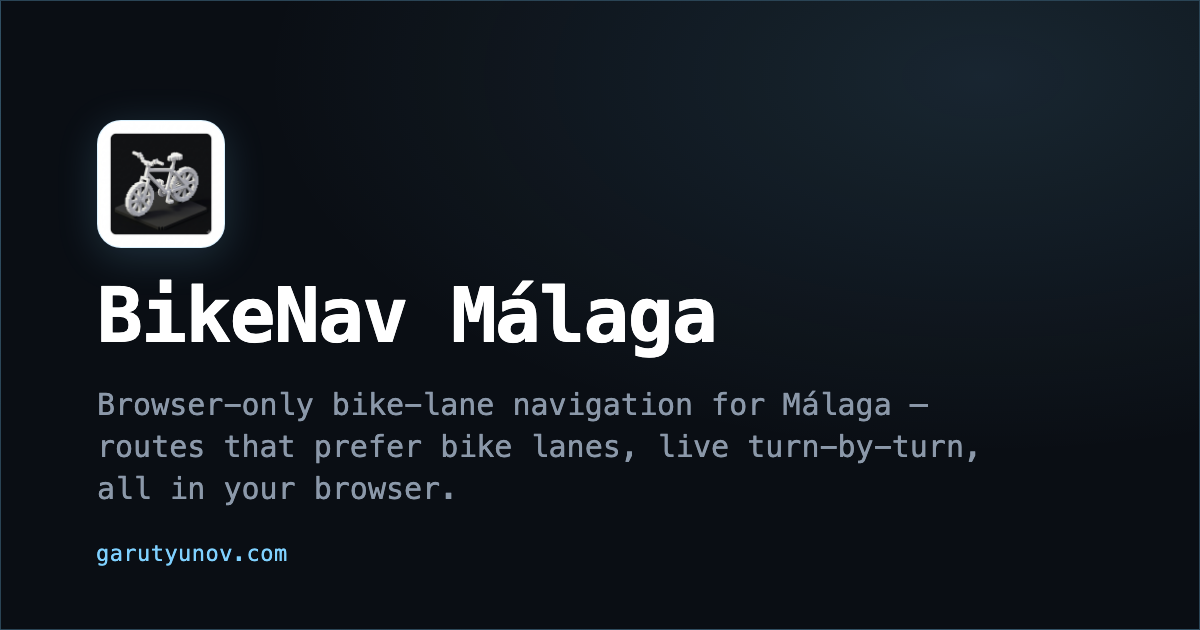
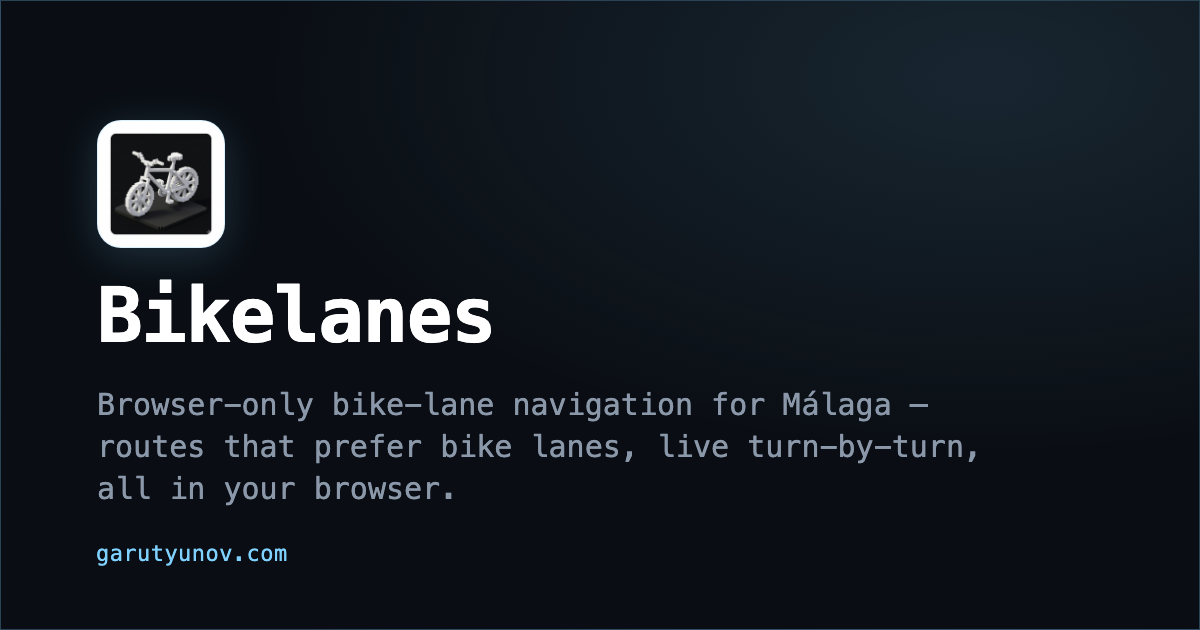
Rename the app to Bikelanes to match the domain (#2)
Owner review comment on PR #3: the product name should match
bikelanes.garutyunov.com.

- index.html: <title>, og:title, twitter:title and the panel heading
  (rendered "Bike" + accented "lanes").
- Regenerated public/og-image.png through the social-image skill so the
  card says Bikelanes.
- README/SPEC headings, file-header comments, the history-import error
  message, and the Overpass user agent.

Persisted identifiers are deliberately untouched: the IndexedDB database
`bikenav` (and its BikeNavDB type) and the `bikenav-history` export format
string — renaming them would orphan every existing user's journey history
and reject their previously exported files.

Changed region(s): [[0.3083, 0.4222, 0.6167, 0.573], [0.2158, 0.4524, 0.2775, 0.5429]]

diff --git a/index.html b/index.html
@@ -4,7 +4,7 @@
     <meta charset="UTF-8" />
     <meta name="viewport" content="width=device-width, initial-scale=1.0, maximum-scale=1.0, user-scalable=no" />
     <meta name="theme-color" content="#000000" />
-    <title>BikeNav Málaga — bike-lane navigation for Málaga</title>
+    <title>Bikelanes — bike-lane navigation for Málaga</title>
     <meta
       name="description"
       content="Browser-only, client-side bike-lane navigation for Málaga: routes that prefer bike lanes, live turn-by-turn, and journey history — all in your browser, no server."
@@ -14,7 +14,7 @@
          Projects section, which crawls this page at build time. -->
     <meta property="og:type" content="website" />
     <meta property="og:url" content="https://bikelanes.garutyunov.com/" />
-    <meta property="og:title" content="BikeNav Málaga" />
+    <meta property="og:title" content="Bikelanes" />
     <meta
       property="og:description"
       content="Browser-only bike-lane navigation for Málaga — routes that prefer bike lanes, live turn-by-turn, all in your browser."
@@ -24,7 +24,7 @@
     <meta property="og:image:height" content="630" />
     <meta property="article:published_time" content="2025-06-15" />
     <meta name="twitter:card" content="summary_large_image" />
-    <meta name="twitter:title" content="BikeNav Málaga" />
+    <meta name="twitter:title" content="Bikelanes" />
     <meta
       name="twitter:description"
       content="Browser-only bike-lane navigation for Málaga — routes that prefer bike lanes, live turn-by-turn, all in your browser."
@@ -50,7 +50,7 @@
 
     <aside id="panel" class="panel">
       <header class="panel-head">
-        <h1>BikeNav <span>Málaga</span></h1>
+        <h1>Bike<span>lanes</span></h1>
         <button id="toggle-history" class="ghost" title="Journey history">History</button>
       </header>
 

diff --git a/src/history/journeys.ts b/src/history/journeys.ts
@@ -83,7 +83,7 @@ export async function exportHistory(): Promise<HistoryExport> {
 export async function importHistory(data: unknown, replace = true): Promise<number> {
   const parsed = data as Partial<HistoryExport>;
   if (!parsed || parsed.format !== 'bikenav-history' || !Array.isArray(parsed.journeys)) {
-    throw new Error('Not a BikeNav history export file.');
+    throw new Error('Not a Bikelanes history export file.');
   }
   const d = await db();
   const tx = d.transaction(['journeys', 'speedProfile'], 'readwrite');

diff --git a/pipeline/fetch.ts b/pipeline/fetch.ts
@@ -59,7 +59,7 @@ export async function fetchAll(): Promise<void> {
       } catch {
         /* CKAN lookup failed — use the fallback path */
       }
-      const res = await fetch(url, { headers: { 'User-Agent': 'BikeNavMalaga/1.0' } });
+      const res = await fetch(url, { headers: { 'User-Agent': 'Bikelanes/1.0' } });
       if (!res.ok) throw new Error(`HTTP ${res.status}`);
       save('carriles-bici.geojson', Buffer.from(await res.arrayBuffer()));
       console.log(`  ↓ carriles-bici.geojson (municipal)`);

diff --git a/pipeline/network.ts b/pipeline/network.ts
@@ -17,7 +17,7 @@ const OVERPASS_ENDPOINTS = [
   'https://overpass.kumi.systems/api/interpreter',
   'https://overpass.private.coffee/api/interpreter',
 ];
-const OVERPASS_UA = 'BikeNavMalaga/1.0 (+https://github.com/gaarutyunov/bikelanes)';
+const OVERPASS_UA = 'Bikelanes/1.0 (+https://github.com/gaarutyunov/bikelanes)';
 
 const sleep = (ms: number) => new Promise<void>((r) => setTimeout(r, ms));
 

diff --git a/src/app/styles.css b/src/app/styles.css
@@ -1,4 +1,4 @@
-/* BikeNav Málaga — restyled to the GA ui-kit house style
+/* Bikelanes — restyled to the GA ui-kit house style
    (@gaarutyunov/ui-kit): pure-black Geist dark theme, matching garutyunov.com
    and stereoscope. Token values mirror ui-kit's tokens.css (--ga-*); the app's
    local aliases below are mapped onto them so the existing markup/JS is

diff --git a/src/app/main.ts b/src/app/main.ts
@@ -1,4 +1,4 @@
-// BikeNav Málaga — app entry point. Wires map, workers, search, slider, import,
+// Bikelanes — app entry point. Wires map, workers, search, slider, import,
 // route panel, navigation HUD and history panel together. (SPEC §4, §10)
 
 import { lineSliceAlong } from '@turf/turf';

diff --git a/SPEC.md b/SPEC.md
@@ -1,4 +1,4 @@
-# BikeNav Málaga — Technical Specification v1.2
+# Bikelanes — Technical Specification v1.2
 
 A browser-only, client-side bike-lane navigation web app for Málaga, hosted on GitHub Pages. All Málaga data (basemap, routing graph, address search) is **pre-built offline and shipped as static artifacts**. There are **no runtime network or API dependencies** — no Google, no Photon, no Nominatim, no CartoCiudad REST, no Overpass at runtime.
 

diff --git a/README.md b/README.md
@@ -1,4 +1,4 @@
-# BikeNav Málaga
+# Bikelanes
 
 A browser-only, client-side bike-lane navigation web app for Málaga, hosted on
 GitHub Pages. All map, routing and search data is **prebuilt offline** and
